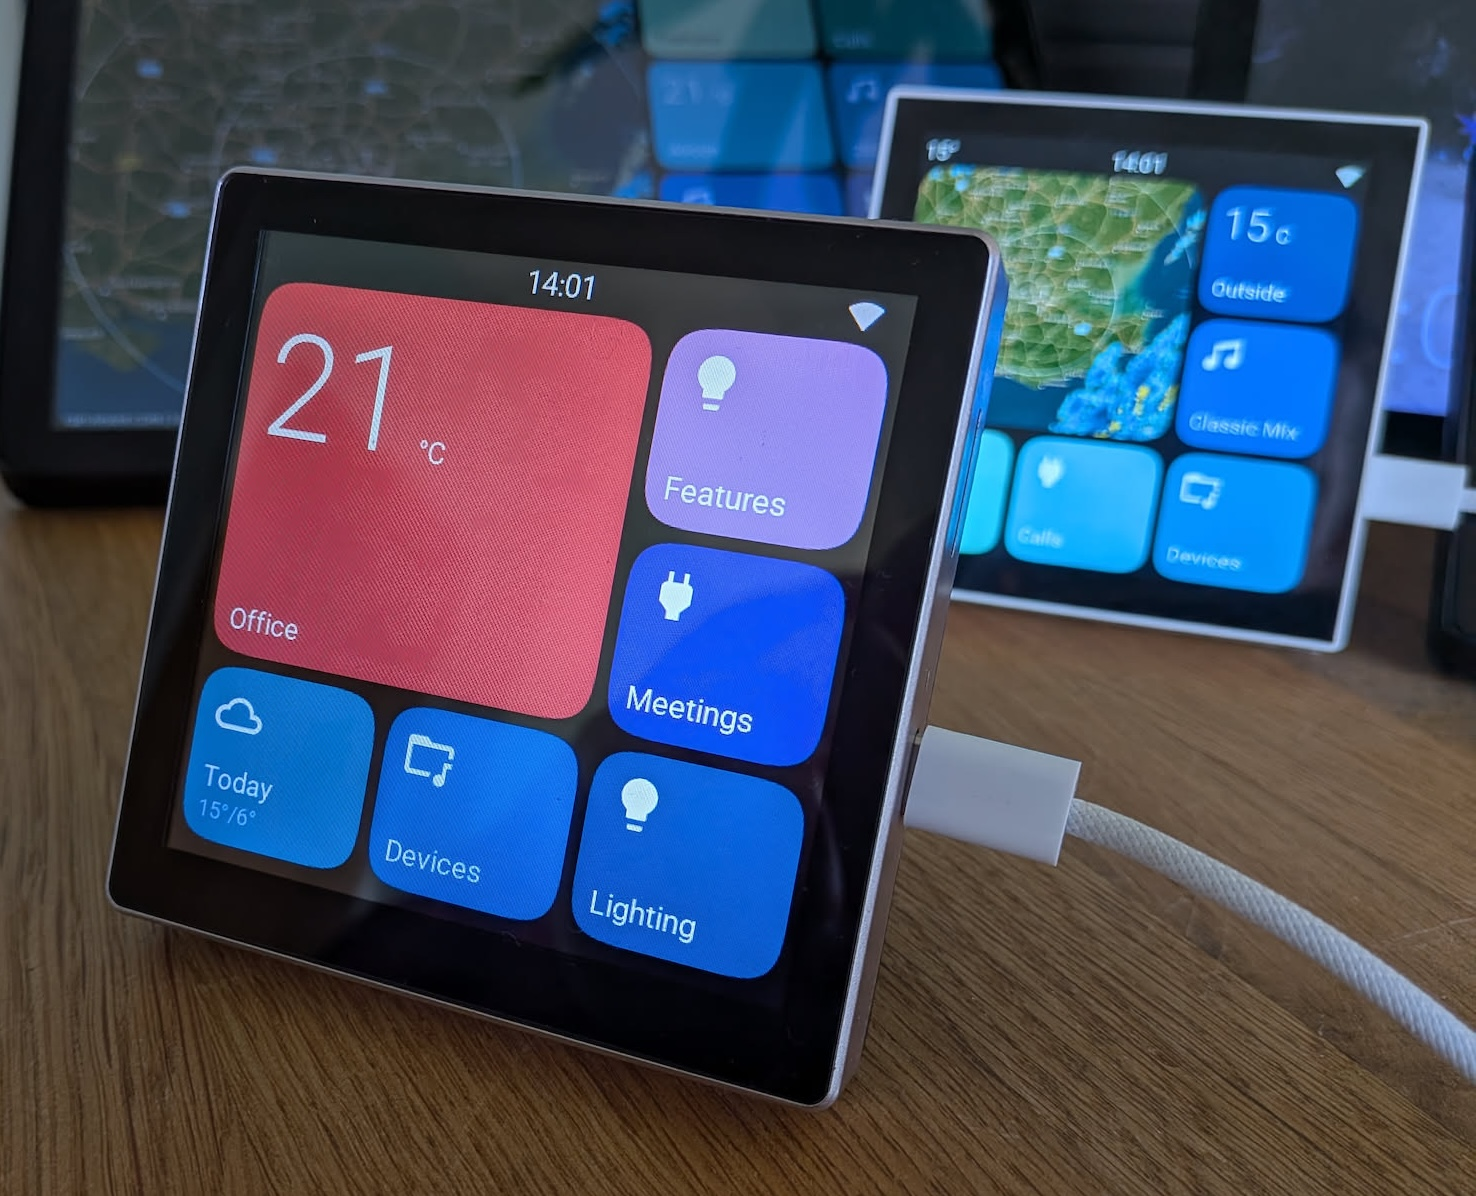
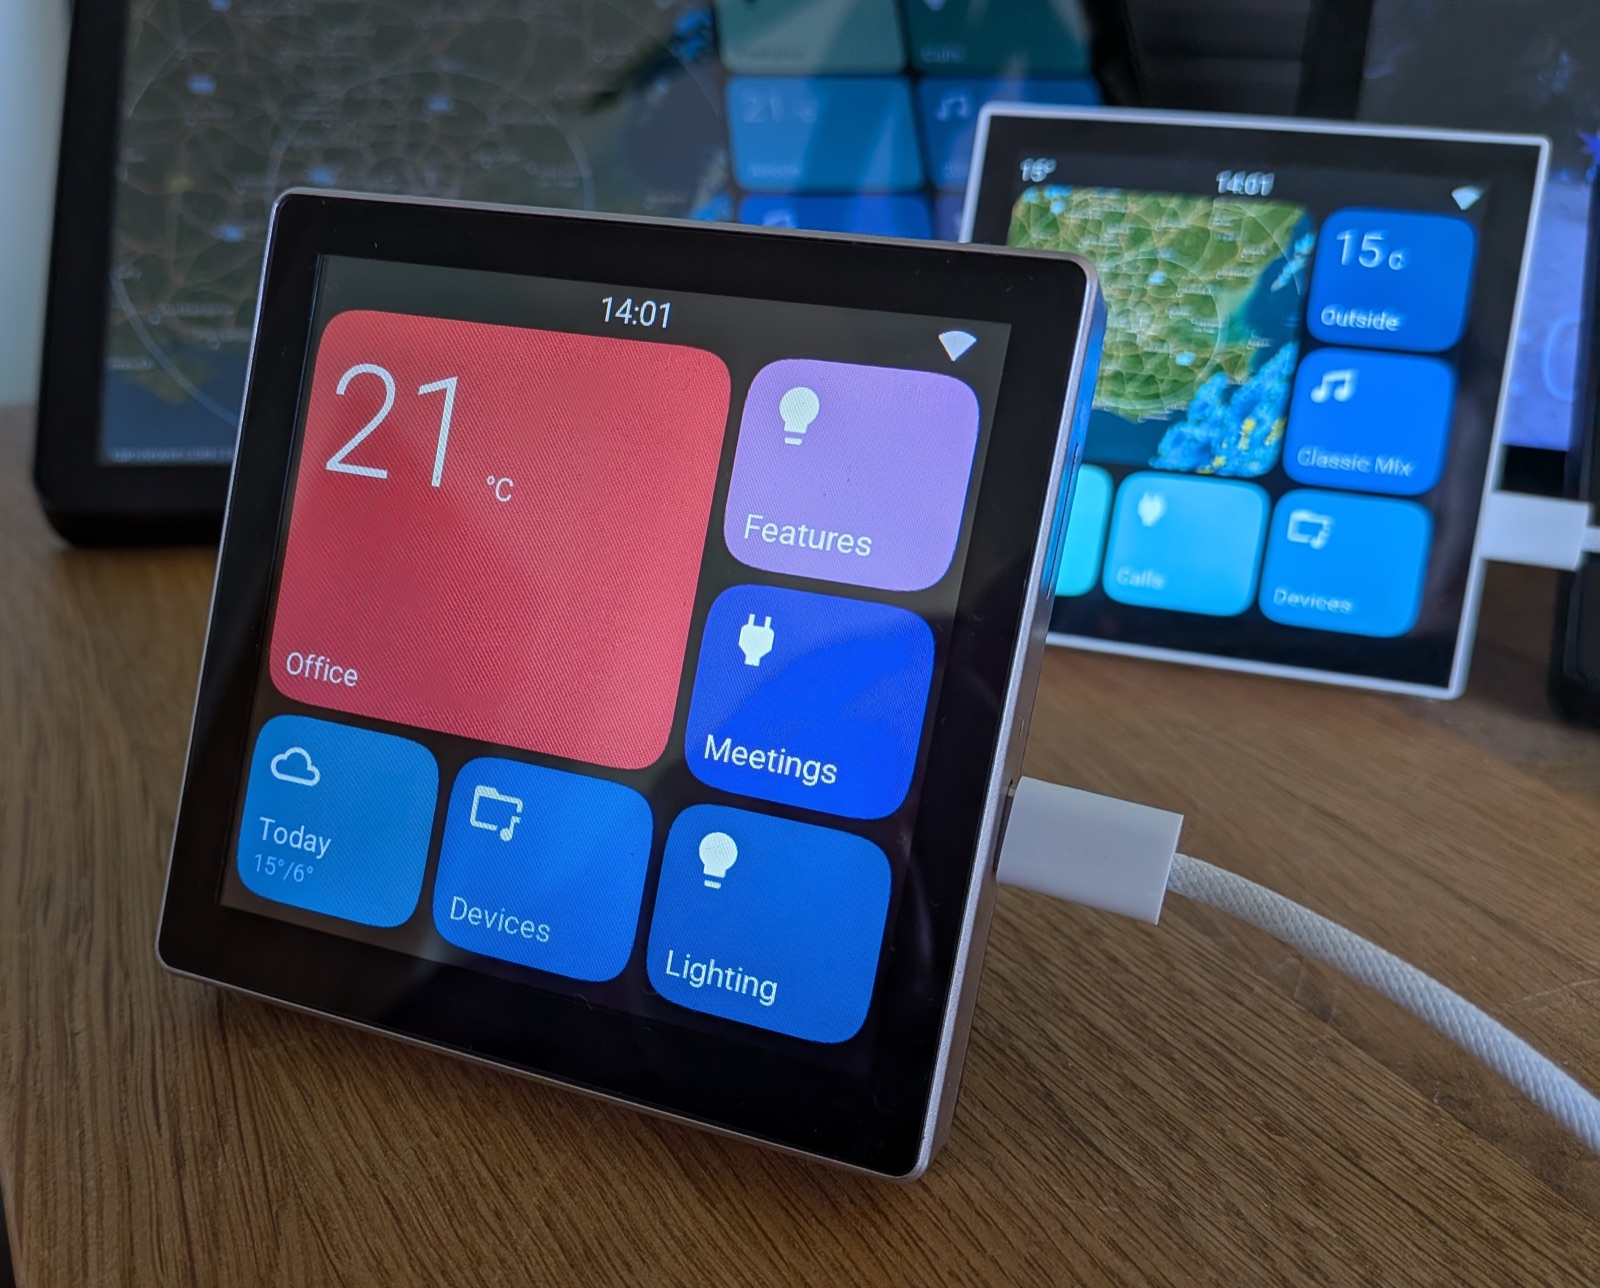
Refresh device guides with matching panel photos

diff --git a/README.md b/README.md
@@ -35,7 +35,7 @@ EspControl works with devices and helpers that are already in Home Assistant, in
 
 If Home Assistant can see it, EspControl is designed to make it easier to put that control or information on a touchscreen.
 
-![Web-based card configuration on the 4-inch 4848S040](docs/public/images/4848s040-buttons.png)
+![EspControl touchscreen panels showing colourful controls, temperatures, media, and radar images](docs/public/images/screens-hero.jpg)
 
 ## How It Works
 
@@ -56,7 +56,7 @@ EspControl supports several low-cost ESP32 touchscreens. Larger screens give you
 
 | | 10.1" JC8012P4A1 | 7" JC1060P470 | 4.3" JC4880P443 | 4" ESP32-P4 86 Panel | 4" 4848S040 |
 |---|:-:|:-:|:-:|:-:|:-:|
-| Image | Image pending | ![7-inch JC1060P470](docs/public/images/jc1060p470-hero.jpg) | ![4.3-inch JC4880P443](docs/public/images/jc4880p443-hero.jpg) | Image pending | ![4-inch 4848S040](docs/public/images/4848s040-hero.jpg) |
+| Image | ![10.1-inch JC8012P4A1](docs/public/images/jc8012p4a1-hero.jpg) | ![7-inch JC1060P470](docs/public/images/jc1060p470-hero.jpg) | ![4.3-inch JC4880P443 in landscape](docs/public/images/jc4880p443-hero.jpg) | ![4-inch ESP32-P4 86 Panel](docs/public/images/p4-86-hero.jpg) | ![4-inch 4848S040](docs/public/images/4848s040-hero.jpg) |
 | Layout | 1280x800 landscape · 20 card slots | 1024x600 landscape · 15 card slots | 480x800 portrait · 6 card slots | 720x720 square · 9 card slots | 480x480 square · 9 card slots |
 | Processor | ESP32-P4 | ESP32-P4 | ESP32-P4 | ESP32-P4 | ESP32-S3 |
 | Panel | [AliExpress ~£40](https://s.click.aliexpress.com/e/_c4W6TYvp) | [AliExpress ~£40](https://s.click.aliexpress.com/e/_c335W0r5) | [AliExpress ~£24](https://s.click.aliexpress.com/e/_c32jr3eN) | [AliExpress ~£45](https://s.click.aliexpress.com/e/_c3O6ndAX) | [AliExpress ~£16](https://s.click.aliexpress.com/e/_c3sIhvBv) |

diff --git a/docs/screens/4848s040.md b/docs/screens/4848s040.md
@@ -6,7 +6,7 @@ description:
 
 # 4-inch 4848S040
 
-![EspControl on the 4-inch 4848S040: square home screen with temperature, clock, and control tiles](/images/4848s040-hero.jpg)
+![4-inch Guition 4848S040 showing a large temperature card, weather, and colourful control cards](/images/4848s040-hero.jpg)
 
 The **Guition 4848S040** is a compact 4-inch square touchscreen powered by an **ESP32-S3** processor. It's the most affordable panel EspControl supports, with a 480×480 display and room for **9 cards** on the home screen.
 
@@ -16,7 +16,9 @@ Touch calibration is set in firmware for the 480×480 screen. If taps activate n
 
 ## Card Grid
 
-![4848S040 card grid showing 9 configurable tiles](/images/4848s040-buttons.png)
+Cards can span several slots. This example shows a [subpage](/features/subpages) with a Back card and a larger temperature card.
+
+![Devices subpage on the 4848S040 showing Back, blind, temperature, and media cards](/images/4848s040-subpage.jpg)
 
 <!--@include: ../generated/screens/4848s040-grid.md-->
 

diff --git a/docs/screens/jc1060p470.md b/docs/screens/jc1060p470.md
@@ -6,7 +6,7 @@ description:
 
 # 7-inch JC1060P470
 
-![EspControl on the 7-inch JC1060P470: home screen with temperature, clock, and control tiles](/images/jc1060p470-hero.jpg)
+![7-inch Guition JC1060P470 in landscape showing a radar image, temperatures, and control cards](/images/jc1060p470-hero.jpg)
 
 The **Guition JC1060P470** is a 7-inch landscape touchscreen powered by an **ESP32-P4** processor. It has a 1024×600 display and room for **15 cards** on the home screen.
 
@@ -36,8 +36,6 @@ Select your version for installation and setup instructions.
 ## Card Grid
 
 Both 7-inch revisions use the same grid size and card layout.
-
-![JC1060P470 card grid showing 15 configurable tiles](/images/jc1060p470-buttons.png)
 
 <!--@include: ../generated/screens/jc1060p470-grid.md-->
 

diff --git a/docs/screens/jc4880p443.md b/docs/screens/jc4880p443.md
@@ -10,7 +10,7 @@ description:
 This firmware supports the original panel with ESP32-P4 silicon below v3.0. For the newer **SKU 10150002-V3**, including **v3.2** chips, use the separate [JC4880P443 V3 firmware](/screens/jc4880p443-v3). The two revisions need different firmware and C6 recovery images.
 :::
 
-![EspControl on the 4.3-inch JC4880P443: portrait home screen with temperature, clock, and control tiles](/images/jc4880p443-hero.jpg)
+![4.3-inch Guition JC4880P443 rotated to landscape, showing radar and control cards](/images/jc4880p443-hero.jpg)
 
 The **Guition JC4880P443** is a 4.3-inch portrait touchscreen powered by an **ESP32-P4** processor. Its tall, narrow layout fits naturally beside a light switch or door frame, with room for **6 cards** on the home screen.
 

diff --git a/docs/screens/index.md b/docs/screens/index.md
@@ -5,6 +5,8 @@ description: Compare supported EspControl touchscreens by size, card capacity, c
 
 # Choose a Home Assistant Touchscreen
 
+![EspControl touchscreen panels showing colourful control cards, temperatures, media, and radar images](/images/screens-hero.jpg)
+
 EspControl turns a supported ESP32 touchscreen into a dedicated Home Assistant controller. Choose the **4-inch S3 for a compact, lower-cost panel** or a **7- or 10.1-inch P4 for more controls at once**. All use the same browser-based card editor.
 
 You need a working Home Assistant installation, a supported screen, a suitable power supply, and a USB data cable for the first install. EspControl has its own interface; it cannot display or import your existing Lovelace dashboard cards.

diff --git a/docs/screens/jc8012p4a1.md b/docs/screens/jc8012p4a1.md
@@ -6,6 +6,8 @@ description:
 
 # 10.1-inch JC8012P4A1
 
+![10.1-inch Guition JC8012P4A1 showing a large radar image, weather forecast, and control cards](/images/jc8012p4a1-hero.jpg)
+
 The **Guition JC8012P4A1** is a 10.1-inch touchscreen powered by an **ESP32-P4** processor and ESP32-C6 WiFi co-processor. EspControl uses it in landscape orientation, with a 1280x800 layout and room for **20 cards** on the home screen.
 
 Choose the page for your panel version before installing. The rear-case revisions look very similar and the newer one may not say `V2` on the label.

diff --git a/docs/screens/p4-86.md b/docs/screens/p4-86.md
@@ -6,6 +6,8 @@ description:
 
 # 4-inch ESP32-P4 86
 
+![4-inch ESP32-P4 86 showing a radar image, outside temperature, media, and control cards](/images/p4-86-hero.jpg)
+
 The **ESP32-P4 86** is a 4-inch square touchscreen powered by an **ESP32-P4** processor. It uses the same 3x3 EspControl layout as the Guition 4848S040, but with a sharper 720x720 display and a faster P4 platform.
 
 EspControl targets the **ESP32-P4-86-Panel-ETH-2RO** model. That version includes WiFi through an ESP32-C6 co-processor, wired Ethernet hardware, and two built-in relays.

diff --git a/docs/features/subpages.md b/docs/features/subpages.md
@@ -6,7 +6,7 @@ description:
 
 # Subpage
 
-![Subpage screen showing Back button and cover position buttons](/images/screen-subpage.png)
+![Devices subpage on the 4848S040 showing Back, blind, temperature, and media cards](/images/4848s040-subpage.jpg)
 
 A Subpage card works like a folder. Tapping it on the panel opens a new page with its own set of cards. This is useful for grouping related controls together, such as all the lights in one room, without filling up the home screen.
 
